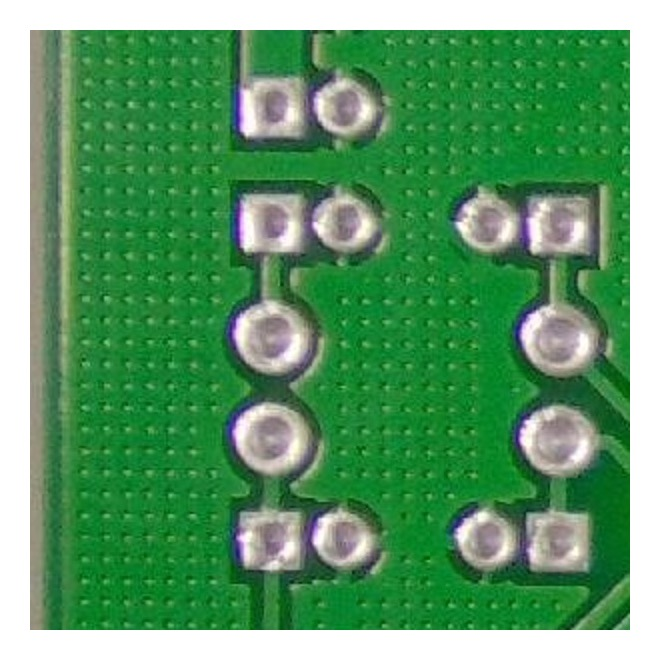
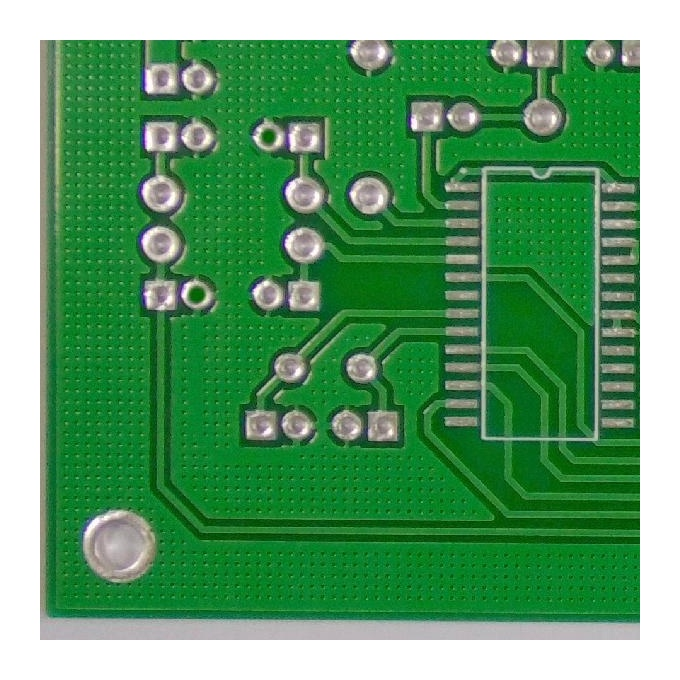
feat: 고객 사진 외관(OTHER)도 표면 결함 검사, 리포트 요약까지 다듬기, 시연 사진 가전별 정리
- worker classify_photos: 고객 접수에서 OTHER로 분류된 제품 전체 사진(세탁기·에어컨)을 기계 표면 검사로 (3장 중 1장이 분석 안 되던 문제)
- polish_report: 요약도 다듬기 (코드가 붙인 안내 문구는 그대로), 프롬프트 1.1.0
- 시연사진: 결함 있는 기판(missing_hole)으로 1·3번 교체, 가전별/(세탁기·로봇청소기·에어컨 전체·부품), 출처.md(위키미디어 라이선스)

Claude-Session: https://claude.ai/code/session_01UXSFZLvoeAA5UPPrnz8vrG

diff --git a/worker/tools.py b/worker/tools.py
@@ -262,23 +262,28 @@ async def write_report(text: str, findings: list[dict], compatible_parts=None, *
 
 
 class Polished(BaseModel):
+    summary: str = Field(default="", description="다듬은 요약 (비우면 원문 유지)")
     explanations: list[str] = Field(description="후보 순서대로 다듬은 근거 설명")
 
 
-async def polish_candidates(candidates: list[dict]) -> list[dict]:
-    """[통합] 리포트 검토: 후보별 근거 설명을 기사가 바로 알아듣는 말로 다듬는다.
-    사실은 바꾸지 않게 지시하고, 실패하거나 개수가 안 맞으면 원문을 그대로 쓴다 (리포트 자체는 막지 않음)."""
+async def polish_report(summary: str, candidates: list[dict]) -> tuple[str, list[dict]]:
+    """[통합] 리포트 검토: 요약과 후보별 근거 설명을 기사가 바로 알아듣는 말로 다듬는다.
+    사실은 바꾸지 않게 지시하고, 실패하거나 개수가 안 맞으면 원문을 그대로 쓴다 (리포트 자체는 막지 않음).
+    요약 뒤에 코드가 붙인 안내(문맥 제한 등, 빈 줄 뒤)는 건드리지 않는다."""
     if not C.USE_GPT or not candidates:
-        return candidates
+        return summary, candidates
+    head, sep, tail = summary.partition("\n\n")
     try:
         brief = [{"cause": c["cause"], "explanation": c["explanation"]} for c in candidates]
-        result = await gpt(Polished).ainvoke(render("polish_report", Polished, candidates=json.dumps(masked(brief), ensure_ascii=False)))
+        result = await gpt(Polished).ainvoke(render("polish_report", Polished, summary=masked(head),
+                                                    candidates=json.dumps(masked(brief), ensure_ascii=False)))
         texts = [t.strip() for t in result.explanations]
         if len(texts) != len(candidates) or not all(texts):
-            return candidates
-        return [{**c, "explanation": t} for c, t in zip(candidates, texts)]
+            return summary, candidates
+        new_head = result.summary.strip() or head
+        return new_head + sep + tail, [{**c, "explanation": t} for c, t in zip(candidates, texts)]
     except Exception:
-        return candidates
+        return summary, candidates
 
 
 # ── 4. 부품 확인 Agent (업무 MCP) / 사례 저장 (rag-mcp) ───────────────

diff --git a/worker/graph.py b/worker/graph.py
@@ -88,6 +88,11 @@ async def classify_photos(state: State, config) -> dict:
                                  "found": False, "output": out})
                 await emit(config, "TOOL_EXECUTED", {"tool": "classify_photo", "toolVersion": "1",
                            "agentType": "RAG", "mcpServer": "agent-llm", "input": {}, "output": out})
+    # [출장] 고객 사진은 제품 전체 외관(세탁기·에어컨)이 많아 OTHER로 빠진다 → 외관 결함 검사(기계 표면)로 보낸다
+    if (state["command"]["payload"].get("repair") or {}).get("intake_source") == "CONSUMER":
+        for p in photos:
+            if p["kind"] == "OTHER":
+                p["kind"] = "MECH"
     # 이전 라운드에서 분류가 실패했던 사진이 이번에 성공하면, 그 실패 기록을 덮는다.
     failed_before = {f.get("attachmentId") for f in state.get("findings", [])
                      if f.get("source") == "CLASSIFICATION" and f.get("output", {}).get("error")}
@@ -316,7 +321,7 @@ async def report(state: State, config) -> dict:
     # [통합] 점수 높은 순으로 순위를 다시 매긴다. GPT가 준 순서 그대로면 0.79가 1순위, 0.95가 2순위가 되기도 했다
     ranked = sorted((c.model_dump() for c in r.candidates), key=lambda c: -c["confidence"])
     candidates = [{"rank": i + 1, **c} for i, c in enumerate(ranked)]
-    candidates = await tools.polish_candidates(candidates)  # [통합] 근거 설명을 사람이 알아듣게 한 번 검토·다듬기
+    r.summary, candidates = await tools.polish_report(r.summary, candidates)  # [통합] 요약·근거 설명을 사람이 알아듣게 한 번 검토·다듬기
     evidence = []  # 근거는 코드가 MCP 결과에서 직접 만든다 (GPT가 사진 번호를 지어내지 않게)
     for f in state["findings"]:
         if f["found"]:

diff --git a/tests/conftest.py b/tests/conftest.py
@@ -11,12 +11,12 @@ def no_case_saving(monkeypatch):
 
 @pytest.fixture(autouse=True)
 def _no_polish_gpt(request, monkeypatch):
-    """[통합] 리포트 근거 다듬기(polish_candidates)는 GPT를 한 번 더 부른다.
+    """[통합] 리포트 근거 다듬기(polish_report)는 GPT를 한 번 더 부른다.
     테스트가 write_report만 흉내 낸 경우 실제 GPT로 나가지 않게 기본은 그대로 통과시킨다 (test_prompts는 직접 검증)."""
     if request.module.__name__.endswith("test_prompts"):
         return
     from worker import tools as _tools
 
-    async def passthrough(candidates):
-        return candidates
-    monkeypatch.setattr(_tools, "polish_candidates", passthrough)
+    async def passthrough(summary, candidates):
+        return summary, candidates
+    monkeypatch.setattr(_tools, "polish_report", passthrough)

diff --git a/worker/prompts.py b/worker/prompts.py
@@ -9,7 +9,7 @@ SPECS = {
     "classify_photo": ("PhotoKind", set()),
     "split_text": ("Clues", {"text"}),
     "write_report": ("Report", {"text", "findings", "compatible_parts"}),
-    "polish_report": ("Polished", {"candidates"}),  # [통합] 근거 설명을 기사가 알아듣는 말로 다듬기
+    "polish_report": ("Polished", {"summary", "candidates"}),  # [통합] 근거 설명을 기사가 알아듣는 말로 다듬기
 }
 
 

diff --git a/시연사진/출처.md b/시연사진/출처.md
@@ -1,0 +1,20 @@
+# 시연 사진 출처
+
+| 파일 | 원본 | 라이선스 |
+|---|---|---|
+| 가전별/로봇청소기_전체_위.jpg | [IRobot-Roomba-Top-view-01.jpg](https://commons.wikimedia.org/wiki/File:IRobot-Roomba-Top-view-01.jpg) | CC BY-SA 4.0 |
+| 가전별/로봇청소기_바닥_브러시.jpg | [Roomba 805 underside.jpg](https://commons.wikimedia.org/wiki/File:Roomba_805_underside.jpg) | CC BY-SA 4.0 |
+| 가전별/로봇청소기_바닥2.jpg | [Roomba e6 underside.jpg](https://commons.wikimedia.org/wiki/File:Roomba_e6_underside.jpg) | CC BY-SA 4.0 |
+| 가전별/로봇청소기_부품_바퀴모듈.jpg | [Roomba wheelencoder.jpg](https://commons.wikimedia.org/wiki/File:Roomba_wheelencoder.jpg) | CC BY-SA 2.0 |
+| 가전별/세탁기_부품_드럼.jpg | [Drum of a washing machine (Bosch Maxx WFO 2440).jpg](https://commons.wikimedia.org/wiki/File:Drum_of_a_washing_machine_(Bosch_Maxx_WFO_2440).jpg) | CC BY-SA 4.0 |
+| 가전별/세탁기_부품_보풀필터_막힘.jpg | [Flusensieb Trockner 01 (fcm).jpg](https://commons.wikimedia.org/wiki/File:Flusensieb_Trockner_01_(fcm).jpg) | CC BY-SA 4.0 |
+| 가전별/에어컨_실외기.jpg | [Panasonic AIR CONDITIONER OUTDOOR UNIT (381).jpg](https://commons.wikimedia.org/wiki/File:Panasonic_AIR_CONDITIONER_OUTDOOR_UNIT_(381).jpg) | CC BY-SA 4.0 |
+| 가전별/에어컨_실내기.jpg | [Mitsubishi Heavy Industries aircon indoor unit FDKN208C.jpg](https://commons.wikimedia.org/wiki/File:Mitsubishi_Heavy_Industries_aircon_indoor_unit_FDKN208C.jpg) | CC BY-SA 3.0 |
+| 가전별/에어컨_부품_필터_오염.jpg | [Dirty AC filters 2023 (1) 01.jpg](https://commons.wikimedia.org/wiki/File:Dirty_AC_filters_2023_(1)_01.jpg) | CC BY-SA 4.0 |
+| 가전별/에어컨_부품_필터_오염2.jpg | [Dirty AC filters 2023 (1) 03.jpg](https://commons.wikimedia.org/wiki/File:Dirty_AC_filters_2023_(1)_03.jpg) | CC BY-SA 4.0 |
+| 가전별/로봇청소기/로봇청소기_부품_모터_분해.jpg | [Motor disassembeled.JPG](https://commons.wikimedia.org/wiki/File:Motor_disassembeled.JPG) | CC BY-SA 3.0 |
+| 가전별/세탁기/세탁기_전체_*.jpg, 가전별/에어컨/에어컨_실외기_찌그러짐.jpg | agy(Gemini 이미지 모델) 생성 — 정상 가전 사진에 결함을 그림 (`appliance_data/gen/1_agy생성`) | 생성 이미지 (실제 고장 사진 아님) |
+| 1_흐린기판_접수.jpg, 3_기판_다시찍어_대체.jpg | 평가셋 `eval/images/pcb_missing_hole.jpg`(PCB 결함 데이터셋) — 흐림·어둡게 / 여백만 붙임 | 평가셋과 같음 |
+| 코드합성/ | 파이썬 코드로 결함을 그린 합성 사진 | 합성 |
+
+- 위키미디어 사진은 저작자 표시·동일조건(CC BY-SA)을 지켜 발표·보고서에 출처를 적을 것

diff --git a/prompts/polish_report.md b/prompts/polish_report.md
@@ -1,8 +1,10 @@
-아래는 가전 수리 진단 리포트의 원인 후보와 근거 설명이다. 출장 수리 기사가 바로 이해하도록 각 근거 설명만 다듬어라.
+아래는 가전 수리 진단 리포트의 요약과 원인 후보별 근거 설명이다. 출장 수리 기사가 바로 이해하도록 요약과 각 근거 설명을 다듬어라.
+- 요약은 세 문장 이내로 돌려줘라.
 - 후보 순서와 개수를 그대로 유지하고, 후보마다 설명 1개를 돌려줘라.
 - 사실·수치·부품 이름을 바꾸거나 새로 지어내지 마라. 원문보다 확실하게 말하지 마라 ("가능성", "확인 필요"는 그대로 둬라).
 - 근거의 출처는 원문에 적힌 것만 써라. 원문이 "MCP 결과"처럼 출처를 뭉뚱그렸으면 "분석 결과"라고만 써라.
 - 재고·입고 정보는 고장 근거가 아니다. 고장 원인의 근거로 쓰지 마라.
 - "MCP", "RAG", "도구", "모델" 같은 내부 용어는 쓰지 마라.
 - 한 설명은 두 문장 이내, 존댓말(~습니다)로 써라.
+요약: {summary}
 후보: {candidates}
